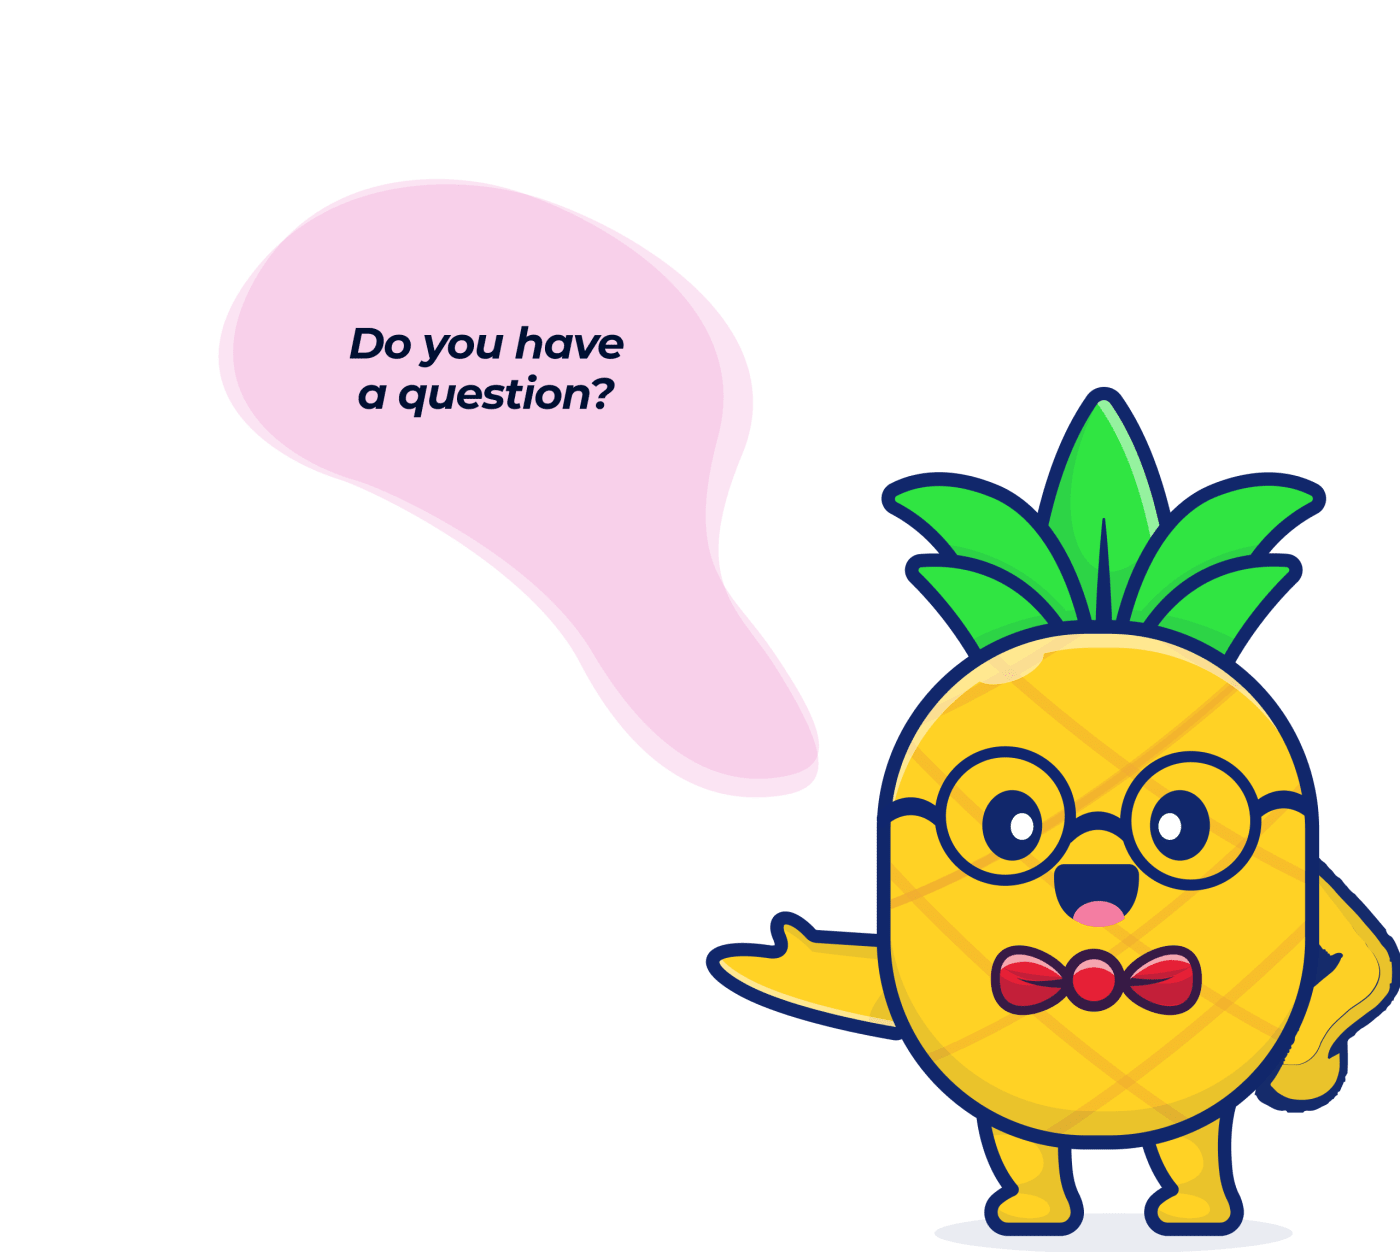
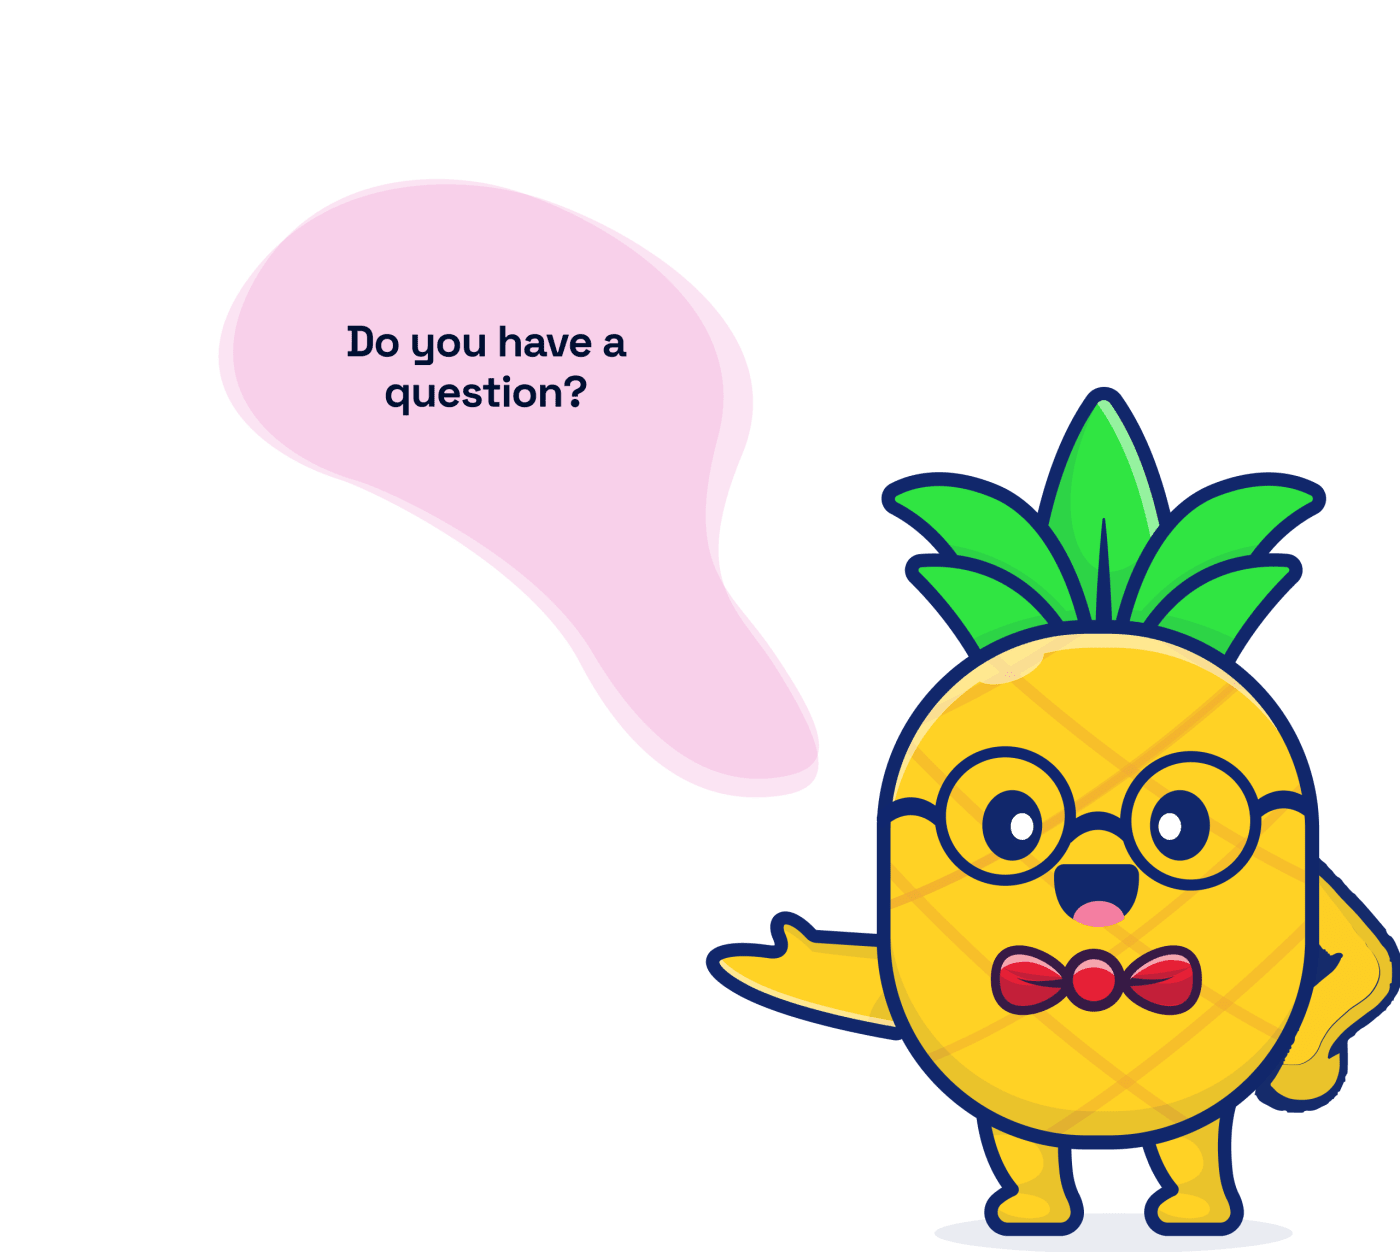
updated app landing page to new copy
- fixed UX nav bugs
- fixed CORS issue w/ substack content
- updated images to use correct fonts

Changed region(s): [[0.2457, 0.2492, 0.4607, 0.3427]]

diff --git a/components/overview/OverviewBannerCmp.vue b/components/overview/OverviewBannerCmp.vue
@@ -5,35 +5,33 @@
 
 <template>
   <div>
-    <div class="title">For those who want to say...</div>
-    <div class="subtitle">
-      It’s your data; wanting a say over what happens to it seems responsable.
-    </div>
+    <div class="title">Your Data Fuels the World</div>
+    <div class="subtitle">The Headquarters of Data Ownership:</div>
     <div class="cta">
-      TIKI is meant for those who want to take an active role in the new data
-      ecomony.
+      TIKI is for those who want to take an active role in shaping the future of
+      data.
     </div>
     <picture class="ovrImg">
       <img
         sizes="(max-width: 1400px) 100vw, 1400px"
         srcset="
           ~/assets/images/png/app_pineapple_w_200.png   200w,
-          ~/assets/images/png/app_pineapple_w_1073.png 1073w,
+          ~/assets/images/png/app_pineapple_w_1119.png 1119w,
           ~/assets/images/png/app_pineapple_w_1400.png 1400w
         "
         src="~/assets/images/png/app_pineapple_w_1400.png"
-        alt="We don’t tell you what to do, we provide tools; you decide!"
+        alt="We provide the tools, you create the new data economy."
         class="ovrImgImg desktop"
       />
       <img
         sizes="(max-width: 1400px) 100vw, 1400px"
         srcset="
           ~/assets/images/png/app_pineapple_mobile_w_200.png   200w,
-          ~/assets/images/png/app_pineapple_mobile_w_763.png   763w,
+          ~/assets/images/png/app_pineapple_mobile_w_797.png   797w,
           ~/assets/images/png/app_pineapple_mobile_w_1400.png 1400w
         "
         src="~/assets/images/png/app_pineapple_mobile_w_1400.png"
-        alt="We don’t tell you what to do, we provide tools; you decide!"
+        alt="We provide the tools, you create the new data economy."
         class="ovrImgImg mobile"
       />
     </picture>
@@ -97,12 +95,12 @@ export default {
 
   .subtitle
     margin: auto
-    width: 60%
+    width: 500px
 
   .cta
     font-size: 2.25em
     margin: 40px auto
-    width: 60%
+    width: 700px
 
   .ovrImg
     width: 45%

diff --git a/components/catalog/CatalogLatestCmp.vue b/components/catalog/CatalogLatestCmp.vue
@@ -8,32 +8,32 @@
     <div class="latestTitle">Latest <strong class="hlt">content</strong></div>
     <div class="contents">
       <catalog-substack-cmp
-        href="https://blog.mytiki.com/p/the-current-state-of-your-data-and"
+        href="/api/content/p/the-current-state-of-your-data-and"
         class="content"
         :color="txtColor"
       />
       <catalog-substack-cmp
-        href="https://blog.mytiki.com/p/your-datas-voyage"
+        href="/api/content/p/your-datas-voyage"
         class="content"
         :color="txtColor"
       />
       <catalog-substack-cmp
-        href="https://blog.mytiki.com/p/how-the-tiki-sdk-works-for-users"
+        href="/api/content/p/how-the-tiki-sdk-works-for-users"
         class="content"
         :color="txtColor"
       />
       <catalog-substack-cmp
-        href="https://blog.mytiki.com/p/datadaos-and-data-pooling"
+        href="/api/content/p/datadaos-and-data-pooling"
         class="content"
         :color="txtColor"
       />
       <catalog-substack-cmp
-        href="https://blog.mytiki.com/p/governance-and-non-intervention-in"
+        href="/api/content/p/governance-and-non-intervention-in"
         class="content"
         :color="txtColor"
       />
       <catalog-substack-cmp
-        href="https://blog.mytiki.com/p/apple-shook-up-the-mobile-ad-market"
+        href="/api/content/p/apple-shook-up-the-mobile-ad-market"
         class="content"
         :color="txtColor"
       />

diff --git a/components/overview/OverviewCmp.vue b/components/overview/OverviewCmp.vue
@@ -7,24 +7,21 @@
   <div>
     <div class="ovrIcons">
       <overview-icon-cmp
-        t1="Earn a"
-        t2="real say"
-        subtitle="Every user is a number of the TIKI DAO, where you decide the actual..."
-        icon="icon-code"
+        title="Propose"
+        subtitle="Your voice, not a central authority, fuels the data marketplace. Propose changes and improvements."
+        icon="icon-propose"
         class="ovrIcon"
       />
       <overview-icon-cmp
-        t1="1 place to manage"
-        t2="your data"
-        subtitle="Connect your various TIKI- supported... Connect your various TIKI- supported..."
-        icon="icon-lock"
+        title="Vote"
+        subtitle="Popular proposals move onto community vote. Your choices set marketplace standards and guidelines."
+        icon="icon-vote"
         class="ovrIcon"
       />
       <overview-icon-cmp
-        t1="Pool for data to"
-        t2="earn money"
-        subtitle="Pool your data with other TIKI users and create new valuable..."
-        icon="icon-heart"
+        title="Influence"
+        subtitle="Participation matters. Propose, vote, share and more to earn influence. More influence, more power."
+        icon="icon-influence"
         class="ovrIcon"
       />
     </div>

diff --git a/components/overview/OverviewIconCmp.vue b/components/overview/OverviewIconCmp.vue
@@ -8,8 +8,7 @@
     <utils-svg-cmp :name="icon" class="iconSvg" />
     <div>
       <div class="ovwTitle">
-        {{ t1 }}<br class="mobile" />
-        {{ t2 }}
+        {{ title }}
       </div>
       <div class="ovwSubtitle">{{ subtitle }}</div>
     </div>
@@ -27,11 +26,7 @@ export default {
       type: String,
       required: true,
     },
-    t1: {
-      type: String,
-      required: true,
-    },
-    t2: {
+    title: {
       type: String,
       required: true,
     },
@@ -69,13 +64,12 @@ export default {
 
   .iconSvg
     margin-right: 20px
-    max-width: 150px
+    max-width: 125px
+    width: 50%
 
   .ovwSubtitle
     text-align: left
 
-  .mobile
-    display: none
 
   .iconWrapper
     display: flex
@@ -97,7 +91,7 @@ export default {
 
   .ovwSubtitle
     width: 20vw
-    max-width: 250px
+    max-width: 300px
     display: block
 
   .ovwTitle

diff --git a/nuxt.config.js b/nuxt.config.js
@@ -87,7 +87,12 @@ export default {
       },
     ],
   ],
-  modules: ['@nuxtjs/style-resources', '@nuxtjs/svg', '@nuxtjs/axios'],
+  modules: [
+    '@nuxtjs/style-resources',
+    '@nuxtjs/svg',
+    '@nuxtjs/axios',
+    '@nuxtjs/proxy',
+  ],
   build: {
     extend(config, ctx) {
       if (ctx.isDev && ctx.isClient) {
@@ -100,4 +105,10 @@ export default {
   },
   axios: {},
   router: {},
+  proxy: {
+    '/api/content/': {
+      target: 'https://blog.mytiki.com/',
+      pathRewrite: { '^/api/content/': '' },
+    },
+  },
 }

diff --git a/pages/index.vue b/pages/index.vue
@@ -51,12 +51,16 @@ export default {
     return {
       links: [
         {
-          name: 'SDK',
-          href: 'https://github.com/tiki',
+          name: 'Substack',
+          href: 'https://blog.mytiki.com',
         },
         {
-          name: 'Learn',
-          href: 'https://blog.mytiki.com',
+          name: 'Docs',
+          href: 'https://docs.mytiki.com',
+        },
+        {
+          name: 'Console',
+          href: 'https://console.mytiki.com',
         },
       ],
       headerLinkColor: theme.yellow,

diff --git a/pages/sdk.vue b/pages/sdk.vue
@@ -60,7 +60,7 @@ export default {
           href: '/',
         },
         {
-          name: 'Learn',
+          name: 'Substack',
           href: 'https://blog.mytiki.com',
         },
         {
@@ -68,7 +68,7 @@ export default {
           href: 'https://docs.mytiki.com',
         },
         {
-          name: 'Sign In',
+          name: 'Console',
           href: 'https://console.mytiki.com',
         },
       ],

diff --git a/components/faq/FaqCmp.vue b/components/faq/FaqCmp.vue
@@ -29,7 +29,7 @@
         sizes="(max-width: 1400px) 100vw, 1400px"
         srcset="
           ~/assets/images/png/faq_pineapple_w_200.png   200w,
-          ~/assets/images/png/faq_pineapple_w_785.png   785w,
+          ~/assets/images/png/faq_pineapple_w_766.png   766w,
           ~/assets/images/png/faq_pineapple_w_1400.png 1400w
         "
         src="~/assets/images/png/faq_pineapple_w_1400.png"

diff --git a/components/hiw/HiwImgCmp.vue b/components/hiw/HiwImgCmp.vue
@@ -9,7 +9,7 @@
       sizes="(max-width: 1400px) 100vw, 1400px"
       srcset="
         ~/assets/images/png/oss_pineapple_w_200.png   200w,
-        ~/assets/images/png/oss_pineapple_w_859.png   859w,
+        ~/assets/images/png/oss_pineapple_w_794.png   794w,
         ~/assets/images/png/oss_pineapple_w_1400.png 1400w
       "
       src="~/assets/images/png/oss_pineapple_w_1400.png"

diff --git a/pages/app.vue b/pages/app.vue
@@ -54,7 +54,7 @@ export default {
           href: '/',
         },
         {
-          name: 'Learn',
+          name: 'Substack',
           href: 'https://blog.mytiki.com',
         },
       ],
